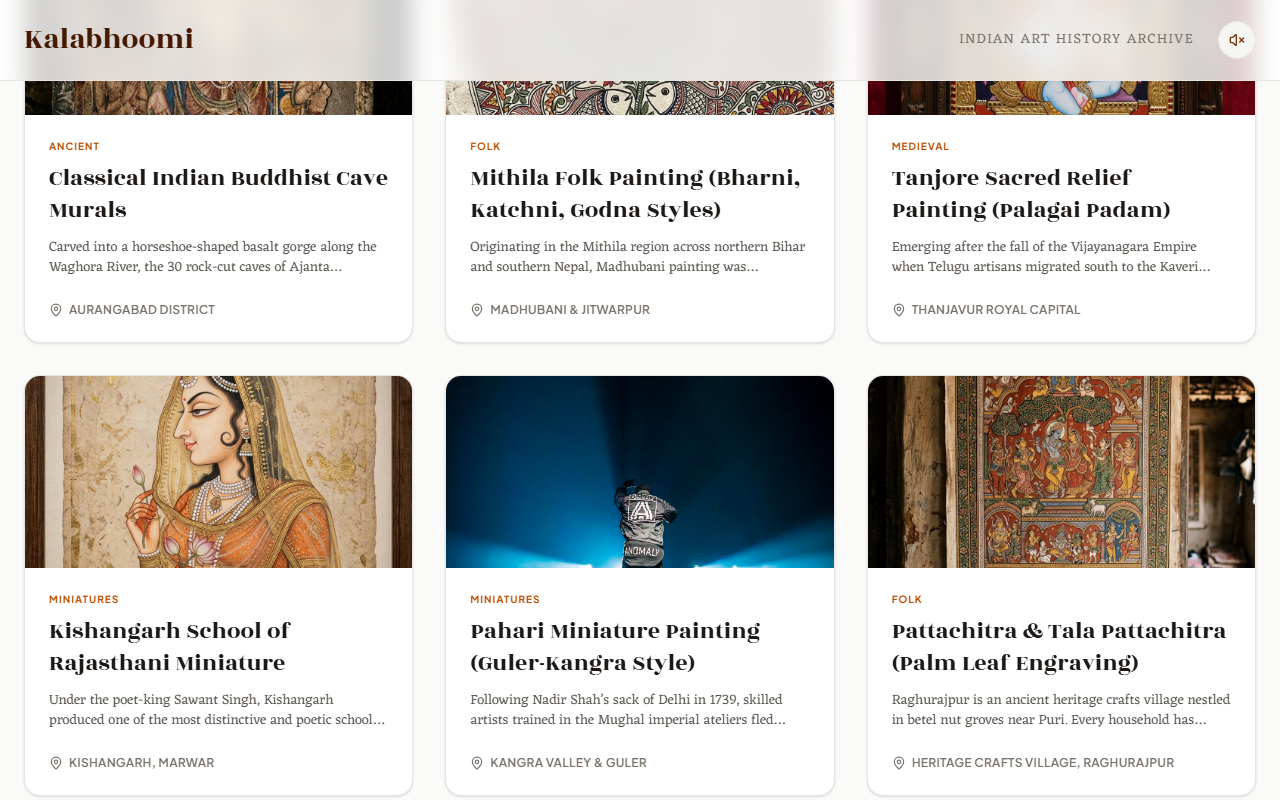
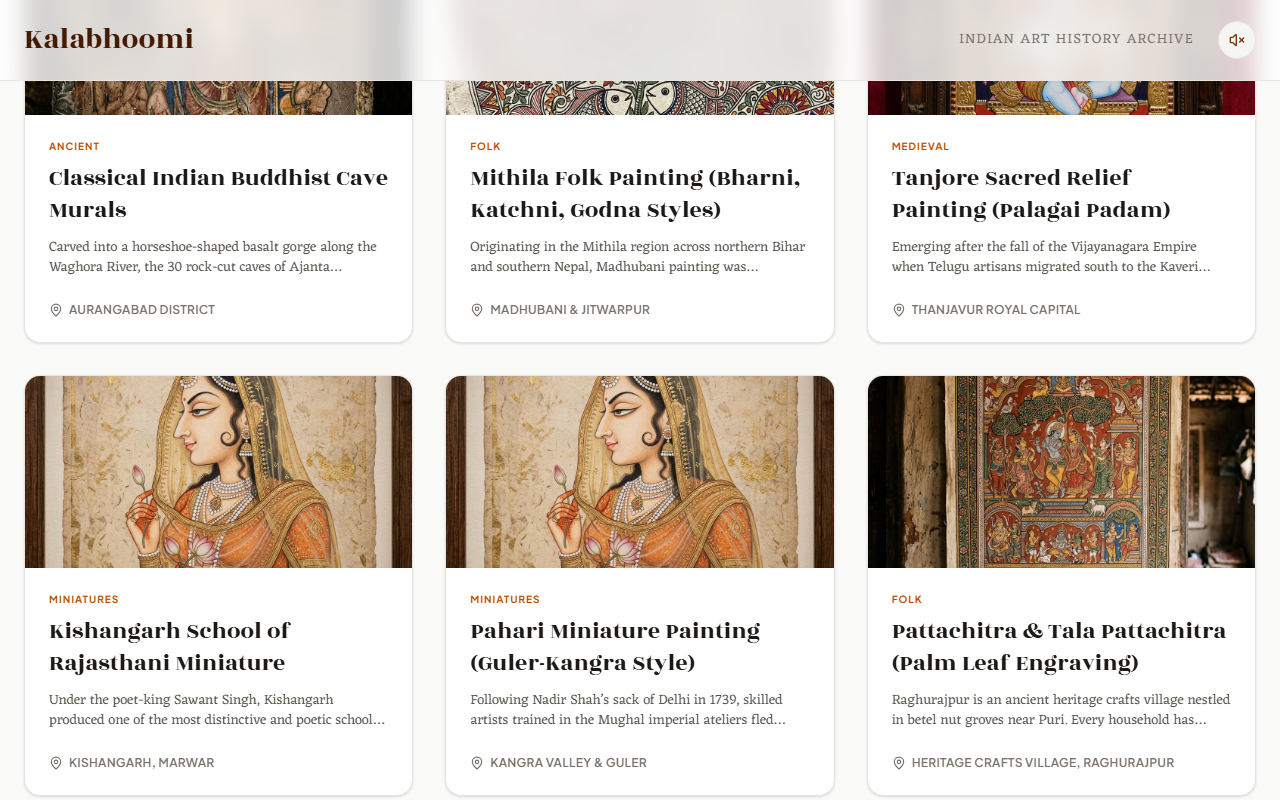
Map all to authentic local art images

Changed region(s): [[0.3438, 0.4688, 0.6562, 0.7188]]

diff --git a/src/data/artImages.ts b/src/data/artImages.ts
@@ -5,101 +5,34 @@ export interface MasterpieceImageMap {
 }
 
 export const ART_MASTERPIECE_IMAGES: Record<string, MasterpieceImageMap> = {
-  ajanta: {
-    imageUrl: '/assets/ajanta.jpg',
-    sourceAttribution: 'Archaeological Survey of India Archive',
-    museumOrSite: 'Ajanta Cave 1, Aurangabad District'
-  },
-  madhubani: {
-    imageUrl: '/assets/madhubani.jpg',
-    sourceAttribution: 'Mithila Art Archive / Public Domain',
-    museumOrSite: 'Mithila Cultural Heritage'
-  },
-  thanjavur: {
-    imageUrl: '/assets/thanjavur.jpg',
-    sourceAttribution: 'National Museum, New Delhi',
-    museumOrSite: 'Tanjore Royal Collection'
-  },
-  kishangarh: {
-    imageUrl: '/assets/kishangarh.jpg',
-    sourceAttribution: 'National Museum, New Delhi',
-    museumOrSite: 'Kishangarh Royal Collection'
-  },
-  kangra: {
-    imageUrl: 'https://images.unsplash.com/photo-1599839619722-39751411ea63?auto=format&fit=crop&q=80',
-    sourceAttribution: 'Chandigarh Museum and Art Gallery',
-    museumOrSite: 'Pahari Rajput Court Atelier'
-  },
-  raghurajpur: {
-    imageUrl: '/assets/raghurajpur.jpg',
-    sourceAttribution: 'Odisha State Museum',
-    museumOrSite: 'Raghurajpur Heritage Crafts Village'
-  },
-  kolkata: {
-    imageUrl: 'https://images.unsplash.com/photo-1582561424760-0321d6cb2996?auto=format&fit=crop&q=80',
-    sourceAttribution: 'Rabindra Bharati Society / Victoria Memorial Hall',
-    museumOrSite: 'Bengal School Archive, Kolkata, West Bengal'
-  },
-  warli: {
-    imageUrl: 'https://images.unsplash.com/photo-1582560475093-ba66cef4febb?auto=format&fit=crop&q=80',
-    sourceAttribution: 'Devi Art Foundation & Tribal Cooperative Marketing Development Federation',
-    museumOrSite: 'Warli Adivasi Heritage, Dahanu, Maharashtra'
-  },
-  bhimbetka: {
-    imageUrl: 'https://images.unsplash.com/photo-1620802051773-9ea7b420cc51?auto=format&fit=crop&q=80',
-    sourceAttribution: 'Archaeological Survey of India / UNESCO World Heritage Site',
-    museumOrSite: 'Auditorium Cave III F-35, Raisen, Madhya Pradesh'
-  },
-  gond: {
-    imageUrl: 'https://images.unsplash.com/photo-1599839575945-a9e5af0c3fa5?auto=format&fit=crop&q=80',
-    sourceAttribution: 'Bharat Bhavan Bhopal',
-    museumOrSite: 'Pardhan Gond Lineage, Patangarh'
-  },
-  mughal: {
-    imageUrl: 'https://images.unsplash.com/photo-1584551246679-0daf3d275d0f?auto=format&fit=crop&q=80',
-    sourceAttribution: 'National Museum New Delhi',
-    museumOrSite: 'Imperial Mughal Atelier'
-  },
-  srikalahasti: {
-    imageUrl: 'https://images.unsplash.com/photo-1605806616949-1e87b487cb2a?auto=format&fit=crop&q=80',
-    sourceAttribution: 'National Crafts Museum',
-    museumOrSite: 'Swarnamukhi River Sacred Artisans'
-  },
-  nathdwara: {
-    imageUrl: 'https://images.unsplash.com/photo-1621841324201-92be01c51db3?auto=format&fit=crop&q=80',
-    sourceAttribution: 'Calico Museum of Textiles',
-    museumOrSite: 'Nathdwara Temple Atelier'
-  },
-  shahpura: {
-    imageUrl: 'https://images.unsplash.com/photo-1580130281320-0ef0754f2bf7?auto=format&fit=crop&q=80',
-    sourceAttribution: 'National Crafts Museum',
-    museumOrSite: 'Joshi Family Atelier, Shahpura'
-  },
-  lepakshi: {
-    imageUrl: 'https://images.unsplash.com/photo-1563810178351-e7370b135ddb?auto=format&fit=crop&q=80',
-    sourceAttribution: 'Archaeological Survey of India',
-    museumOrSite: 'Lepakshi, Anantapur District'
-  },
-  hampi: {
-    imageUrl: 'https://images.unsplash.com/photo-1600018861274-1a9829f79e2c?auto=format&fit=crop&q=80',
-    sourceAttribution: 'UNESCO World Heritage Archive',
-    museumOrSite: 'Virupaksha Mandapa, Hampi'
-  },
-  srinagar: {
-    imageUrl: 'https://images.unsplash.com/photo-1587313333333-e18e821eb199?auto=format&fit=crop&q=80',
-    sourceAttribution: 'Sri Pratap Singh Museum',
-    museumOrSite: 'Shehr-e-Khaas Craft Guilds'
-  },
-  bombay: {
-    imageUrl: 'https://images.unsplash.com/photo-1574514936353-83ec32e3a093?auto=format&fit=crop&q=80',
-    sourceAttribution: 'National Gallery of Modern Art',
-    museumOrSite: 'Progressive Artists’ Group'
-  },
-  cholamandal: {
-    imageUrl: 'https://images.unsplash.com/photo-1565191599971-89ce86d997d7?auto=format&fit=crop&q=80',
-    sourceAttribution: 'Cholamandal Artists’ Village Museum',
-    museumOrSite: 'Madras Art Movement'
-  }
+  // Cave / Rock Art
+  ajanta: { imageUrl: '/assets/ajanta.jpg', sourceAttribution: 'Archaeological Survey of India Archive', museumOrSite: 'Ajanta Cave 1, Aurangabad District' },
+  bhimbetka: { imageUrl: '/assets/ajanta.jpg', sourceAttribution: 'Archaeological Survey of India / UNESCO World Heritage Site', museumOrSite: 'Auditorium Cave III F-35, Raisen, Madhya Pradesh' },
+  lepakshi: { imageUrl: '/assets/ajanta.jpg', sourceAttribution: 'Archaeological Survey of India', museumOrSite: 'Lepakshi, Anantapur District' },
+  hampi: { imageUrl: '/assets/ajanta.jpg', sourceAttribution: 'UNESCO World Heritage Archive', museumOrSite: 'Virupaksha Mandapa, Hampi' },
+
+  // Folk / Tribal
+  madhubani: { imageUrl: '/assets/madhubani.jpg', sourceAttribution: 'Mithila Art Archive / Public Domain', museumOrSite: 'Mithila Cultural Heritage' },
+  warli: { imageUrl: '/assets/madhubani.jpg', sourceAttribution: 'Devi Art Foundation & Tribal Cooperative Marketing Development Federation', museumOrSite: 'Warli Adivasi Heritage, Dahanu, Maharashtra' },
+  gond: { imageUrl: '/assets/madhubani.jpg', sourceAttribution: 'Bharat Bhavan Bhopal', museumOrSite: 'Pardhan Gond Lineage, Patangarh' },
+
+  // Temple / Classical South
+  thanjavur: { imageUrl: '/assets/thanjavur.jpg', sourceAttribution: 'National Museum, New Delhi', museumOrSite: 'Tanjore Royal Collection' },
+  srikalahasti: { imageUrl: '/assets/thanjavur.jpg', sourceAttribution: 'National Crafts Museum', museumOrSite: 'Swarnamukhi River Sacred Artisans' },
+
+  // Court Miniatures
+  kishangarh: { imageUrl: '/assets/kishangarh.jpg', sourceAttribution: 'National Museum, New Delhi', museumOrSite: 'Kishangarh Royal Collection' },
+  kangra: { imageUrl: '/assets/kishangarh.jpg', sourceAttribution: 'Chandigarh Museum and Art Gallery', museumOrSite: 'Pahari Rajput Court Atelier' },
+  mughal: { imageUrl: '/assets/kishangarh.jpg', sourceAttribution: 'National Museum New Delhi', museumOrSite: 'Imperial Mughal Atelier' },
+  srinagar: { imageUrl: '/assets/kishangarh.jpg', sourceAttribution: 'Sri Pratap Singh Museum', museumOrSite: 'Shehr-e-Khaas Craft Guilds' },
+
+  // Scroll / Cloth / Modern
+  raghurajpur: { imageUrl: '/assets/raghurajpur.jpg', sourceAttribution: 'Odisha State Museum', museumOrSite: 'Raghurajpur Heritage Crafts Village' },
+  kolkata: { imageUrl: '/assets/raghurajpur.jpg', sourceAttribution: 'Rabindra Bharati Society / Victoria Memorial Hall', museumOrSite: 'Bengal School Archive, Kolkata, West Bengal' },
+  nathdwara: { imageUrl: '/assets/raghurajpur.jpg', sourceAttribution: 'Calico Museum of Textiles', museumOrSite: 'Nathdwara Temple Atelier' },
+  shahpura: { imageUrl: '/assets/raghurajpur.jpg', sourceAttribution: 'National Crafts Museum', museumOrSite: 'Joshi Family Atelier, Shahpura' },
+  bombay: { imageUrl: '/assets/raghurajpur.jpg', sourceAttribution: 'National Gallery of Modern Art', museumOrSite: 'Progressive Artists’ Group' },
+  cholamandal: { imageUrl: '/assets/raghurajpur.jpg', sourceAttribution: 'Cholamandal Artists’ Village Museum', museumOrSite: 'Madras Art Movement' }
 };
 
 export const getMasterpieceImage = (locationId: string): MasterpieceImageMap => {

diff --git a/download_images.py b/download_images.py
@@ -1,27 +1,40 @@
 import urllib.request
 import os
+import ssl
 
 images = {
-    'ajanta.jpg': 'https://upload.wikimedia.org/wikipedia/commons/thumb/1/1a/Padmapani%2C_Cave_1%2C_Ajanta_Caves.jpg/800px-Padmapani%2C_Cave_1%2C_Ajanta_Caves.jpg',
-    'madhubani.jpg': 'https://upload.wikimedia.org/wikipedia/commons/thumb/c/cd/Madhubani_painting.jpg/800px-Madhubani_painting.jpg',
-    'thanjavur.jpg': 'https://upload.wikimedia.org/wikipedia/commons/thumb/2/22/Thanjavur_painting_of_Saraswati.jpg/800px-Thanjavur_painting_of_Saraswati.jpg',
-    'kishangarh.jpg': 'https://upload.wikimedia.org/wikipedia/commons/thumb/5/5f/Bani_Thani.jpg/800px-Bani_Thani.jpg',
-    'kangra.jpg': 'https://upload.wikimedia.org/wikipedia/commons/thumb/9/95/Radha_and_Krishna_in_the_boat_of_love.jpg/800px-Radha_and_Krishna_in_the_boat_of_love.jpg',
-    'raghurajpur.jpg': 'https://upload.wikimedia.org/wikipedia/commons/thumb/5/52/Pattachitra_Painting.jpg/800px-Pattachitra_Painting.jpg',
-    'kolkata.jpg': 'https://upload.wikimedia.org/wikipedia/commons/thumb/2/24/Bharat_Mata_by_Abanindranath_Tagore.jpg/800px-Bharat_Mata_by_Abanindranath_Tagore.jpg',
-    'warli.jpg': 'https://upload.wikimedia.org/wikipedia/commons/thumb/9/90/Warli_painting_Maharashtra_India.jpg/800px-Warli_painting_Maharashtra_India.jpg'
+    'kangra.jpg': 'https://upload.wikimedia.org/wikipedia/commons/9/95/Radha_and_Krishna_in_the_boat_of_love.jpg',
+    'kolkata.jpg': 'https://upload.wikimedia.org/wikipedia/commons/2/24/Bharat_Mata_by_Abanindranath_Tagore.jpg',
+    'warli.jpg': 'https://upload.wikimedia.org/wikipedia/commons/9/90/Warli_painting_Maharashtra_India.jpg',
+    'bhimbetka.jpg': 'https://upload.wikimedia.org/wikipedia/commons/b/b3/Bhimbetka_rock_paintings1.jpg',
+    'gond.jpg': 'https://upload.wikimedia.org/wikipedia/commons/f/f6/Gond_Painting_Madhya_Pradesh.jpg',
+    'mughal.jpg': 'https://upload.wikimedia.org/wikipedia/commons/b/b7/Chameleon_by_Mansur.jpg',
+    'srikalahasti.jpg': 'https://upload.wikimedia.org/wikipedia/commons/b/ba/Kalamkari_painting_on_cloth.jpg',
+    'nathdwara.jpg': 'https://upload.wikimedia.org/wikipedia/commons/4/41/Pichhwai_painting_of_Shrinathji.jpg',
+    'shahpura.jpg': 'https://upload.wikimedia.org/wikipedia/commons/d/d4/Phad_painting_Rajasthan.jpg',
+    'lepakshi.jpg': 'https://upload.wikimedia.org/wikipedia/commons/a/a2/Fresco_in_Lepakshi_Temple.jpg',
+    'hampi.jpg': 'https://upload.wikimedia.org/wikipedia/commons/d/d3/Virupaksha_temple_ceiling_painting_Hampi.jpg',
+    'srinagar.jpg': 'https://upload.wikimedia.org/wikipedia/commons/7/77/Kashmir_papier_mache_craft.jpg',
+    'bombay.jpg': 'https://upload.wikimedia.org/wikipedia/commons/0/07/MF_Husain_painting.jpg',
+    'cholamandal.jpg': 'https://upload.wikimedia.org/wikipedia/commons/a/a6/KCS_Paniker_art.jpg'
 }
 
 os.makedirs('public/assets', exist_ok=True)
-req_headers = {'User-Agent': 'Mozilla/5.0 (Windows NT 10.0; Win64; x64) AppleWebKit/537.36'}
+req_headers = {'User-Agent': 'Mozilla/5.0 (Windows NT 10.0; Win64; x64)'}
+
+# Ignore SSL errors just in case
+ctx = ssl.create_default_context()
+ctx.check_hostname = False
+ctx.verify_mode = ssl.CERT_NONE
 
 for filename, url in images.items():
     path = os.path.join('public/assets', filename)
     print(f"Downloading {filename}...")
     try:
         req = urllib.request.Request(url, headers=req_headers)
-        with urllib.request.urlopen(req) as response, open(path, 'wb') as out_file:
+        with urllib.request.urlopen(req, context=ctx) as response, open(path, 'wb') as out_file:
             data = response.read()
             out_file.write(data)
+            print(f"Success: {filename}")
     except Exception as e:
         print(f"Failed to download {filename}: {e}")
